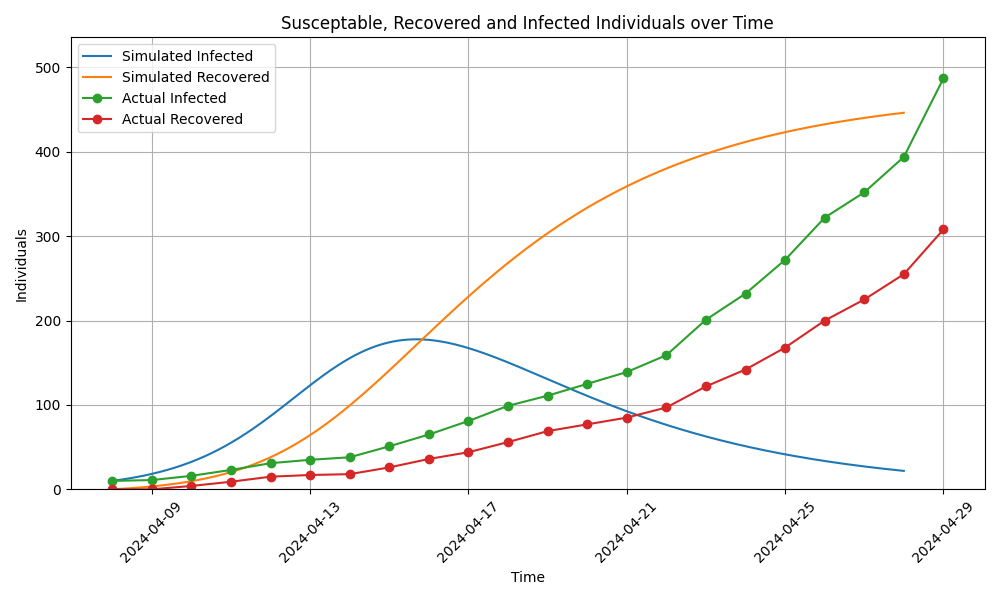
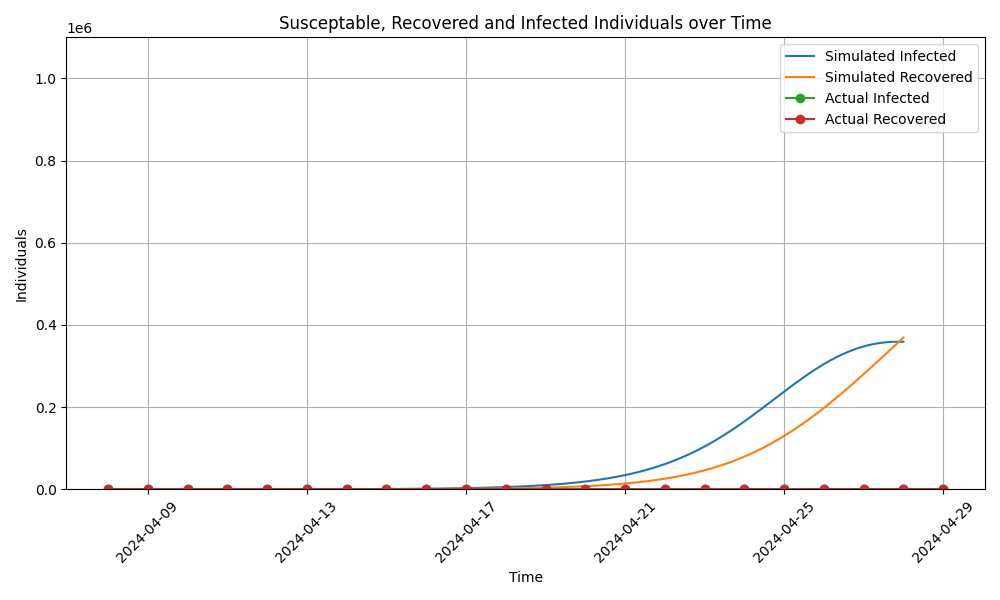
Using correct N value

diff --git a/diff.py b/diff.py
@@ -32,7 +32,7 @@ plt.grid()
 plt.legend(["Infection rate", "Recovery rate"])
 plt.savefig("diagrams/approximation_derivative.png")
 
-N = max(df[TOTAL_INFECTIONS_COL])
+N = 1_000_000
 I = df[INFECTED_COL].values
 R = df[TOTAL_RECOVERIES_COL].values
 S = N - I
@@ -54,8 +54,8 @@ beta, gamma = res
 
 print(f"Beta: {beta}")
 print(f"Gamma: {gamma}")
-print(f"Mean approximation of gamma: {np.mean(recovery_rate / I)}")
 print(f"Median approximation of beta: {np.median((infection_rate + recovery_rate) * N / S / I)}")
+print(f"Mean approximation of gamma: {np.mean(recovery_rate / I)}")
 print(f"R_0: {beta / gamma}")
 
 plt.figure(figsize=(10, 6))

diff --git a/forward_euler.py b/forward_euler.py
@@ -35,7 +35,7 @@ gamma = 0.2501883071115894
 dt = 0.001
 
 df = import_data()
-N_init = max(df[TOTAL_INFECTIONS_COL])
+N_init = 1_000_000
 R_init = df[TOTAL_RECOVERIES_COL][0]
 I_init = df[TOTAL_INFECTIONS_COL][0]
 S_init = N_init - I_init
